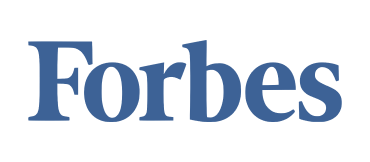
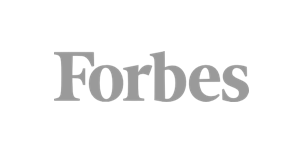
Press slider added

Changed region(s): [[0.06, 0.24, 0.93, 0.7733]]

diff --git a/src/components/Home.vue b/src/components/Home.vue
@@ -42,9 +42,9 @@
               <h1 class="tw-text-34px tw-text-text-color tw-leading-38px tw-mb-6px tw-font-bold">Human Skills Matter</h1>
               <p class="tw-text-16px tw-text-text-color tw-font-medium tw-leading-26px tw-mb-34px">Gleac measures and
                 develops human skills for any job in 10 minutes a day using A.I.</p>
-              <div class="ui action large fluid input">
+              <div class="ui action big fluid input">
                 <input type="text" placeholder="Type in a job title and see the skills needed">
-                <button class="ui primary button">Search</button>
+                <button class="ui primary large button">Search</button>
               </div>
             </div>
 
@@ -60,6 +60,7 @@
       <section class="press tw-bg-secondary">
         <div class="tw-container tw-m-auto">
 
+          <!--
           <div class="tw-flex">
             <div class="tw-w-1/9 tw-flex">
               <div class="image_wrapper" @click="open_case_study_modal()">
@@ -107,6 +108,56 @@
               </div>
             </div>
           </div>
+          -->
+
+          <VueSlickCarousel v-bind="slider_settings" class="">
+            <div>
+              <div class="image_wrapper">
+                <img src="/src/assets/images/press/strada.png">
+              </div>
+            </div>
+            <div>
+              <div class="image_wrapper">
+                <img src="/src/assets/images/press/prada.png">
+              </div>
+            </div>
+            <div>
+              <div class="image_wrapper">
+                <img src="/src/assets/images/press/spottabl.png">
+              </div>
+            </div>
+            <div>
+              <div class="image_wrapper">
+                <img src="/src/assets/images/press/pwc.png">
+              </div>
+            </div>
+            <div>
+              <div class="image_wrapper">
+                <img src="/src/assets/images/press/gulf.png">
+              </div>
+            </div>
+
+            <div>
+              <div class="image_wrapper">
+                <img src="/src/assets/images/press/expo.png">
+              </div>
+            </div>
+            <div>
+              <div class="image_wrapper">
+                <img src="/src/assets/images/press/korn.png">
+              </div>
+            </div>
+            <div>
+              <div class="image_wrapper">
+                <img src="/src/assets/images/press/accenture.png">
+              </div>
+            </div>
+            <div>
+              <div class="image_wrapper">
+                <img src="/src/assets/images/press/forbes.png">
+              </div>
+            </div>
+          </VueSlickCarousel>
 
         </div>
       </section>
@@ -399,7 +450,36 @@
 export default {
     name: 'Home',
     data() {
-      return {}
+      return {
+        slider_settings:{
+          "autoplay": true,
+          "dots": false,
+          "focusOnSelect": true,
+          "infinite": true,
+          "speed": 500,
+          "slidesToShow": 6,
+          "slidesToScroll": 3,
+          "touchThreshold": 5,
+          "responsive": [
+            {
+              "breakpoint": 1024,
+              "settings": {
+                "slidesToShow": 6,
+                "slidesToScroll": 6,
+                "infinite": true,
+              }
+            },
+            {
+              "breakpoint": 640,
+              "settings": {
+                "slidesToShow": 3,
+                "slidesToScroll": 3,
+                "infinite": true,
+              }
+            },
+          ]
+        }
+      }
     },
     methods:{
       open_case_study_modal(){
@@ -441,7 +521,10 @@ export default {
     }
 
     section.press {
-      padding: 28px 0;
+      div:focus{
+        outline: none;
+      }
+      padding: 10px 0;
       border-top: 1px solid rgba(117, 122, 160, 0.14139);
       border-bottom: 1px solid rgba(117, 122, 160, 0.14139);
       img {
